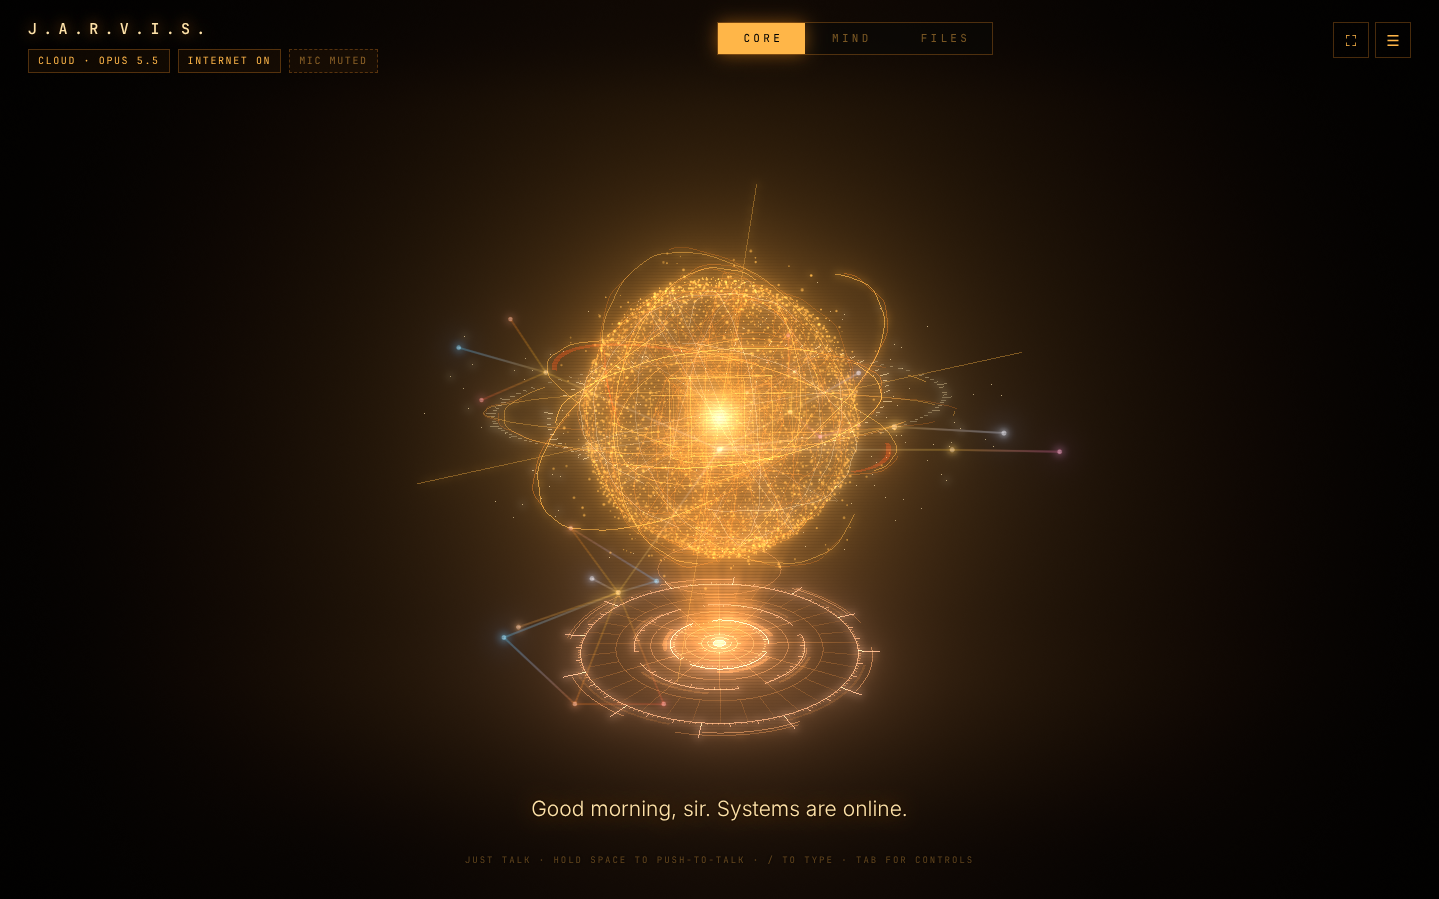
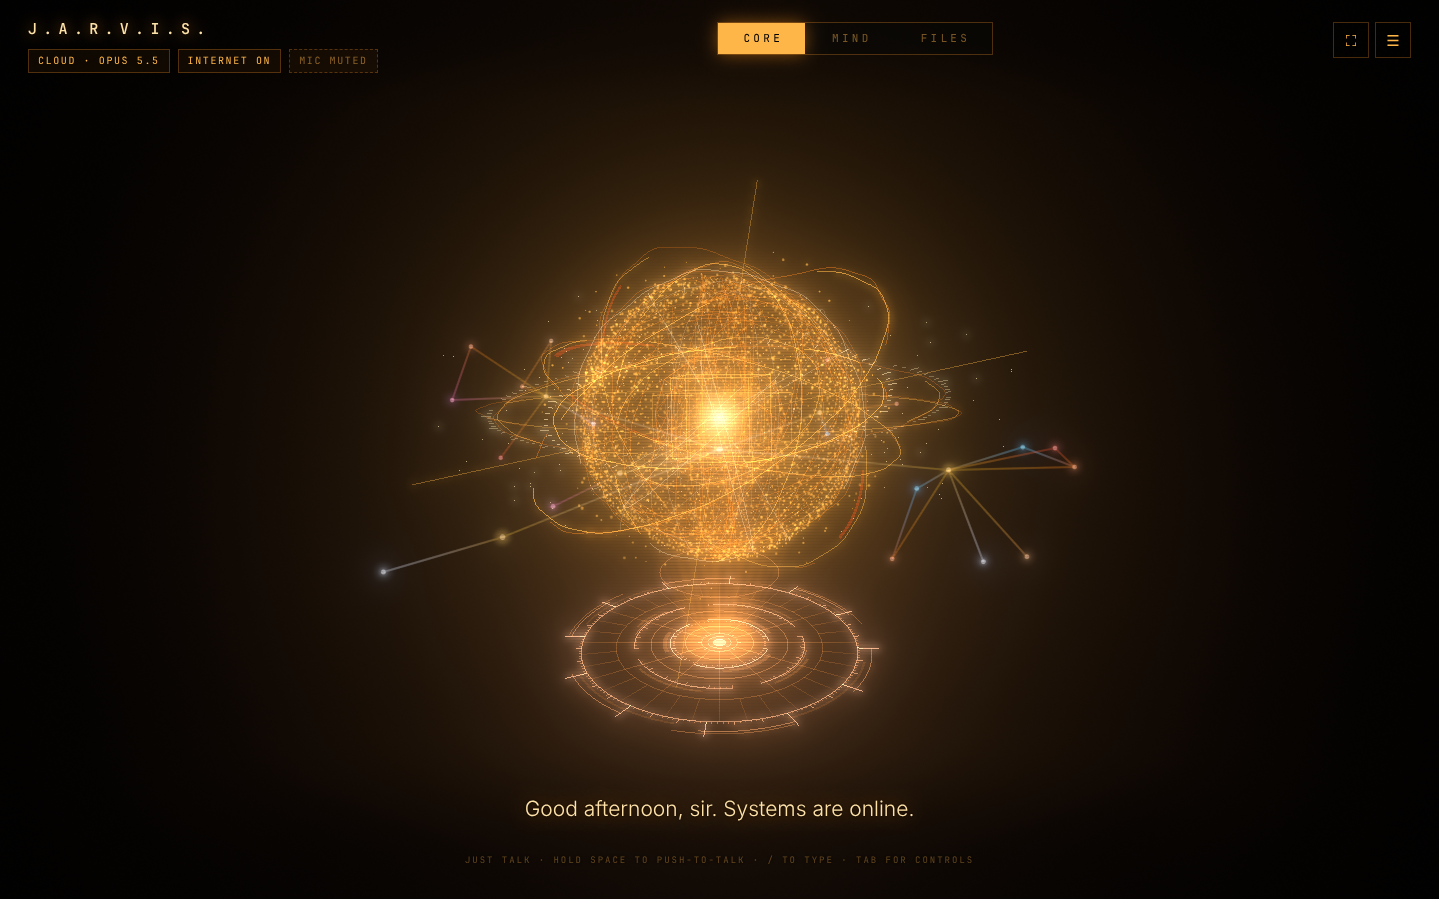
Steady the map labels and keep the bloom fix to thin links
- A label keeps its place while that is free, returns to a better one only
  after a delay, and fades when it changes side instead of blinking out.
  While the view is dragged a label gives way to a passing marker only if
  the marker stays under it.
- The selected node's name no longer jumps or blinks while orbiting.
- The bloom bright-pass change now applies only to lone thin lines, so the
  orb and table glow as they did before it.

Claude-Session: https://claude.ai/code/session_01LpiVzT5SZvfAVuvfMP1Asv

diff --git a/src/renderer/graph.js b/src/renderer/graph.js
@@ -146,10 +146,19 @@ for (let j = 0; j <= FOOT; j++) {
 // the right of its marker, then one line below, one above, then the same three places to the left
 // of its marker; if all are taken it fades out until there is room again. The node card is kept
 // clear in the same way.
+// A label keeps its place for as long as that is free, and does not chase the map as it turns: it
+// goes back to a better place only once that has been free for LABEL_HOME seconds. While the view
+// is being turned by hand (inHand) it also lets markers swing past under it, and gives way only to
+// one that is still there after LABEL_HOLD seconds (to a more important label, at once). Moving a
+// line up or down it slides; changing sides it fades out where it is and in at the new place.
+// While the layout itself is still settling there is no waiting: the labels keep up with the nodes.
 const LABEL_LINE = 12;
 const LABEL_DY = [0, LABEL_LINE, -LABEL_LINE, 0, LABEL_LINE, -LABEL_LINE];
 const LABEL_LEFT = 3; // from this slot on, the text is to the left of its marker
-const LABEL_STICK = 4; // a label only moves when the other place is clear by this much (no dithering)
+const LABEL_STICK = 4; // a label only moves to a place that is clear by this much (no dithering)
+const LABEL_HOME = 1.2; // seconds a better place must have stayed free before a label goes back to it
+const LABEL_HOLD = 0.8; // seconds a marker must have been under a label, as the view is turned by hand, before the label gives way
+const LABEL_TURN = 0.06; // a label changing sides has faded this far out before it appears at the new place
 
 // A plumb line fades behind the caption too.
 const STEM_VERT = /* glsl */ `
@@ -196,6 +205,7 @@ export class Graph3D {
     this.focusId = null;
     this.hoverId = null;
     this.labelsOn = true;
+    this.inHand = false; // set while the view is being turned by hand: labels then let markers swing past (see LABEL_HOLD)
     this.labelsShown = false;
     this.time = 0;
     // Extent of the layout, refreshed whenever it moves: furthest node from the centre, furthest
@@ -248,7 +258,7 @@ export class Graph3D {
     // A gentle pull toward the horizontal plane: the map settles wider than tall, like an object
     // hovering over the table, while staying a volume.
     if (this.opts.flatten) this.sim.force('flatten', forceY(0).strength(this.opts.flatten));
-    this.labels = new Map(); // id -> {id, el, w, rank, slot, dx, dy, fade, fresh, x0, x1, y, h, op, tx, ty, on, sx, sy, dist, ring, block}
+    this.labels = new Map(); // id -> {id, el, w, rank, slot, put, left, wait, held, dx, dy, fade, fresh, x0, x1, y, h, op, tx, ty, on, sx, sy, dist, ring, block}
     this.labelOrder = []; // the same records, most important first
     this.labelKept = []; // scratch: the boxes no label may print over — markers, then labels as they are placed
     this.cardBox = { x0: 0, x1: 0, y: 0, h: -1 }; // the node card, while it is up (see keepClear)
@@ -601,7 +611,7 @@ export class Graph3D {
         el.className = 'node-label';
         this.opts.labelLayer.appendChild(el);
         rec = {
-          id, el, text: null, mode: -1, w: 0, rank: 0, slot: 0, dx: 0, dy: 0, fade: 1, fresh: true, x0: 0, x1: 0, y: 0, h: LABEL_LINE / 2, op: 0, tx: NaN, ty: NaN,
+          id, el, text: null, mode: -1, w: 0, rank: 0, slot: 0, put: false, left: false, wait: 0, held: 0, dx: 0, dy: 0, fade: 1, fresh: true, x0: 0, x1: 0, y: 0, h: LABEL_LINE / 2, op: 0, tx: NaN, ty: NaN,
           on: false, sx: 0, sy: 0, dist: 0, ring: 0, block: { x0: 0, x1: 0, y: 0, h: 0 }, // where its marker is this frame, and the box that keeps it clear
         };
         this.labels.set(id, rec);
@@ -656,7 +666,9 @@ export class Graph3D {
       box.x0 = rec.sx - reach; box.x1 = rec.sx + reach; box.y = rec.sy; box.h = reach;
       kept.push(box);
     }
-    const ease = 1 - Math.exp(-dt * 10);
+    const fixed = kept.length; // from here on the list holds labels
+    const calm = this.settling ? 0 : 1; // while the layout itself is still moving, the labels keep up with it at once
+    const ease = 1 - Math.exp(-dt * 10), turn = 1 - Math.exp(-dt * 30);
     const hud = this.opts.hud;
     // labels dim with depth: full strength at the near side of the map, well legible still at the far side
     const nearest = Math.max(0, camera.position.length() - this.radius);
@@ -665,6 +677,7 @@ export class Graph3D {
       const el = rec.el;
       if (!rec.on) {
         if (rec.op !== 0) el.style.opacity = rec.op = 0;
+        rec.fresh = true; rec.put = false; rec.slot = 0; rec.wait = rec.held = 0; // when it is seen again it starts from its first place
         continue;
       }
       const focus = rec.id === this.focusId;
@@ -673,32 +686,59 @@ export class Graph3D {
       // the text starts just outside the marker's outermost ring (and outside the selection's
       // brackets), however large the marker is drawn
       const clear = rec.ring + (focus ? 14 : 5);
-      let slot = -1, x = 0;
-      for (let t = 0; t < LABEL_DY.length && slot < 0; t++) {
+      // the first place that is free; whether where it is now still is; and if not, whether a more
+      // important label has taken it (labels are tried first: they are the last in the list)
+      let best = -1, here = false, taken = false;
+      for (let t = 0; t < LABEL_DY.length && (best < 0 || t <= rec.slot); t++) {
         const pad = t === rec.slot ? 0 : LABEL_STICK;
         const xx = t >= LABEL_LEFT ? sx - clear - rec.w : sx + clear;
         const yy = sy + LABEL_DY[t];
         let free = true;
-        for (let j = 0; j < kept.length; j++) {
+        for (let j = kept.length - 1; j >= 0; j--) {
           const o = kept[j];
-          if (o !== rec.block && xx - pad < o.x1 && xx + rec.w + pad > o.x0 && Math.abs(yy - o.y) < o.h + LABEL_LINE / 2 - 1 + pad * 0.5) { free = false; break; }
+          if (o !== rec.block && xx - pad < o.x1 && xx + rec.w + pad > o.x0 && Math.abs(yy - o.y) < o.h + LABEL_LINE / 2 - 1 + pad * 0.5) {
+            free = false;
+            if (t === rec.slot) taken = j >= fixed;
+            break;
+          }
         }
-        if (free) { slot = t; x = xx; }
+        if (free) {
+          if (t === rec.slot) here = true;
+          if (best < 0) best = t;
+        }
       }
-      if (slot < 0 && marked) { slot = 0; x = sx + clear; } // the selected or hovered node is always named
-      // a label changing sides does not slide across its own marker: it fades in at the new place
-      const flip = !rec.fresh && slot >= 0 && (slot >= LABEL_LEFT) !== (rec.slot >= LABEL_LEFT);
-      const jump = rec.fresh || flip;
+      let slot = best;
+      if (here) { // free where it is: it stays, until a better place has been free for a while
+        rec.wait = best < rec.slot ? rec.wait + dt : 0;
+        rec.held = 0;
+        if (rec.wait < LABEL_HOME * calm) slot = rec.slot;
+      } else if (!taken && rec.put && this.inHand) { // the view is being turned and a marker (or the card) has come under it: it stays a moment
+        rec.wait = 0;
+        rec.held += dt;
+        if (rec.held < LABEL_HOLD * calm) slot = rec.slot;
+      }
+      if (slot !== rec.slot) rec.wait = rec.held = 0;
+      if (slot < 0 && marked) slot = rec.slot; // the selected or hovered node is always named
+      const x = slot >= LABEL_LEFT ? sx - clear - rec.w : sx + clear;
+      // a label changing sides does not slide across its own marker: it fades out where it is
+      // (turning), then in at the new place
+      const left = slot >= LABEL_LEFT;
+      const turning = slot >= 0 && !rec.fresh && left !== rec.left && rec.fade > LABEL_TURN;
       if (slot >= 0) {
         rec.slot = slot;
         rec.x0 = x; rec.x1 = x + rec.w; rec.y = sy + LABEL_DY[slot];
         kept.push(rec);
-        const dx = slot >= LABEL_LEFT ? -(clear * 2 + rec.w) : 0;
-        rec.dx = jump ? dx : rec.dx + (dx - rec.dx) * ease;
-        rec.dy = jump ? LABEL_DY[slot] : rec.dy + (LABEL_DY[slot] - rec.dy) * ease;
+        if (!turning) {
+          const jump = rec.fresh || left !== rec.left;
+          const dx = left ? -(clear * 2 + rec.w) : 0;
+          rec.dx = jump ? dx : rec.dx + (dx - rec.dx) * ease;
+          rec.dy = jump ? LABEL_DY[slot] : rec.dy + (LABEL_DY[slot] - rec.dy) * ease;
+          rec.left = left;
+        }
       }
-      const shown = slot >= 0 ? 1 : 0;
-      rec.fade = rec.fresh ? shown : flip ? 0 : rec.fade + (shown - rec.fade) * ease;
+      rec.put = slot >= 0;
+      const shown = slot >= 0 && !turning ? 1 : 0;
+      rec.fade = rec.fresh ? shown : rec.fade + (shown - rec.fade) * (turning ? turn : ease);
       rec.fresh = false;
       let fade = marked ? 1 : 0.95 - 0.55 * THREE.MathUtils.clamp((rec.dist - nearest) / (this.radius * 2), 0, 1);
       // the HUD's words always win: under the top bar a label fades out; behind the caption it

diff --git a/src/renderer/stage.js b/src/renderer/stage.js
@@ -403,13 +403,19 @@ export function screenPass() {
 // The bloom pass decides what is bright enough to glow at half resolution, from the average of each
 // 2x2 block of pixels. A hairline lies inside one block or is split between two depending on where
 // it falls on the pixel grid, so along a beam at a shallow slope the glow would switch on and off
-// every couple of rows: beads of light that crawl as the view turns. Here a block is also judged by
-// the light in the 6x6 pixels around it — as bright as it would be if the line ran squarely through
-// it, though never brighter than the brightest pixel next to it — so a thin line glows along its
-// whole length or not at all. A broad area of light glows exactly as before, and nothing glows less
-// than it did. Only a block that holds some light, but not enough to glow by itself, takes the
-// wider look (eight more bilinear samples), and the brightest pixel is only searched for where
-// that look finds enough light: the dark room and the bright cores cost what they always did.
+// every couple of rows: beads of light that crawl as the view turns. Here a block that holds some
+// light, but not enough to glow by itself, is also judged by the 6x6 pixels around it, where those
+// hold one line and nothing else: light all the way across (side to side, or top to bottom), with
+// one side of it, or two opposite corners, left dark. Such a block counts as bright as it would be
+// if the line ran squarely through it, though never brighter than the brightest pixel next to it,
+// so a lone thin line near the horizontal or the vertical (where the beads are long enough to see)
+// glows along its whole length or not at all. Everything else is judged exactly as before: a broad
+// area of light, a point, a line well off both axes, and above all a crowd of points and lines
+// such as the orb or the table's rings, which would otherwise glow in every gap. Nothing glows
+// less than it did. The wider look is eight more bilinear samples, and the brightest pixel is only
+// searched for where that look finds a line: the dark room and the bright cores cost what they
+// always did.
+const BLOOM_LONE = 0.2; // a line is alone while the light off it is under this share of its own
 const BLOOM_GATE = /* glsl */ `
   uniform sampler2D tDiffuse; uniform float luminosityThreshold; uniform float smoothWidth;
   varying vec2 vUv;
@@ -419,10 +425,14 @@ const BLOOM_GATE = /* glsl */ `
     vec3 block = textureLod(tDiffuse, vUv, 0.0).rgb;        // this 2x2 block: what goes on to be blurred
     float v = luma(block);
     if (v > 0.002 && v < luminosityThreshold + smoothWidth) {
-      float around = 0.0;                                   // the 6x6 pixels around it, as nine 2x2 averages
-      for (int j = -1; j <= 1; j++) for (int i = -1; i <= 1; i++) around += luma(textureLod(tDiffuse, vUv + vec2(float(i), float(j)) * 2.0 * px, 0.0).rgb);
-      float line = around / 3.0;                            // a line's light across its width, as one block would hold it
-      if (line > v && line > luminosityThreshold) {
+      mat3 n;                                               // the 6x6 pixels around it, as nine 2x2 averages
+      for (int j = 0; j < 3; j++) for (int i = 0; i < 3; i++) n[i][j] = luma(textureLod(tDiffuse, vUv + vec2(float(i - 1), float(j - 1)) * 2.0 * px, 0.0).rgb);
+      vec3 cols = vec3(1.0) * n, rows = n[0] + n[1] + n[2]; // their light by column and by row
+      // a line's light across its width, as one block would hold it: what the weakest third of its run through here holds
+      float line = max(min(cols.x, min(cols.y, cols.z)), min(rows.x, min(rows.y, rows.z)));
+      // what lies off the line: the darker side of the neighbourhood, or the darker pair of opposite corners
+      float off = min(min(min(cols.x, cols.z), min(rows.x, rows.z)), min(n[0][0] + n[2][2], n[2][0] + n[0][2]));
+      if (line > v && line > luminosityThreshold && off < ${BLOOM_LONE.toFixed(2)} * line) {
         float peak = 0.0;
         for (int j = 0; j < 4; j++) for (int i = 0; i < 4; i++) peak = max(peak, luma(textureLod(tDiffuse, vUv + (vec2(float(i), float(j)) - 1.5) * px, 0.0).rgb));
         v = max(v, min(peak, line));

diff --git a/src/renderer/app.js b/src/renderer/app.js
@@ -437,7 +437,9 @@ function trackSelection(w, hgt) {
 
 const activeGraph = () => (view === 'files' ? files : view === 'mind' ? mind : null);
 let downAt = null;
-canvas.addEventListener('pointerdown', (e) => { downAt = [e.clientX, e.clientY]; controls.autoRotate = false; follow = null; });
+const inHand = (on) => { mind.inHand = files.inHand = on; }; // labels hold their places while the view is turned by hand
+canvas.addEventListener('pointerdown', (e) => { downAt = [e.clientX, e.clientY]; controls.autoRotate = false; follow = null; inHand(true); });
+canvas.addEventListener('pointercancel', () => inHand(false));
 canvas.addEventListener('wheel', () => { follow = null; }, { passive: true });
 canvas.addEventListener('pointermove', (e) => {
   const g = activeGraph();
@@ -448,6 +450,7 @@ canvas.addEventListener('pointermove', (e) => {
 });
 canvas.addEventListener('pointerleave', () => { mind.setHover(null); files.setHover(null); canvas.style.cursor = 'default'; });
 canvas.addEventListener('pointerup', (e) => {
+  inHand(false);
   setTimeout(() => { controls.autoRotate = true; }, 4000);
   if (!downAt || Math.hypot(e.clientX - downAt[0], e.clientY - downAt[1]) > 5) return;
   const g = activeGraph();
